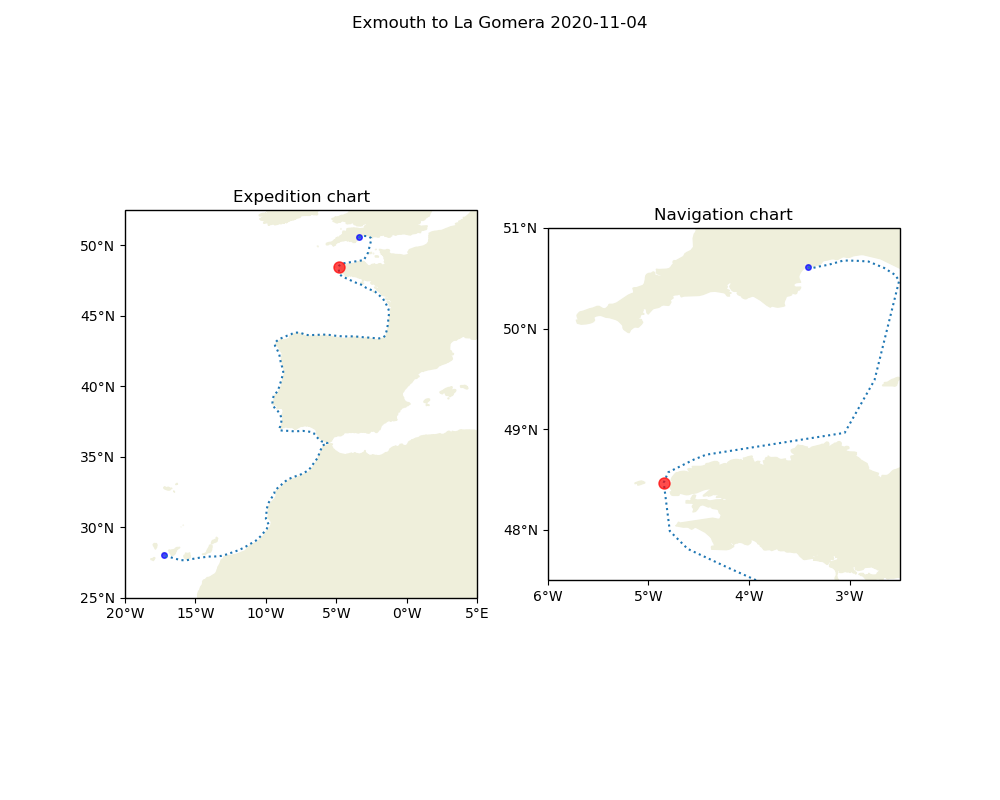
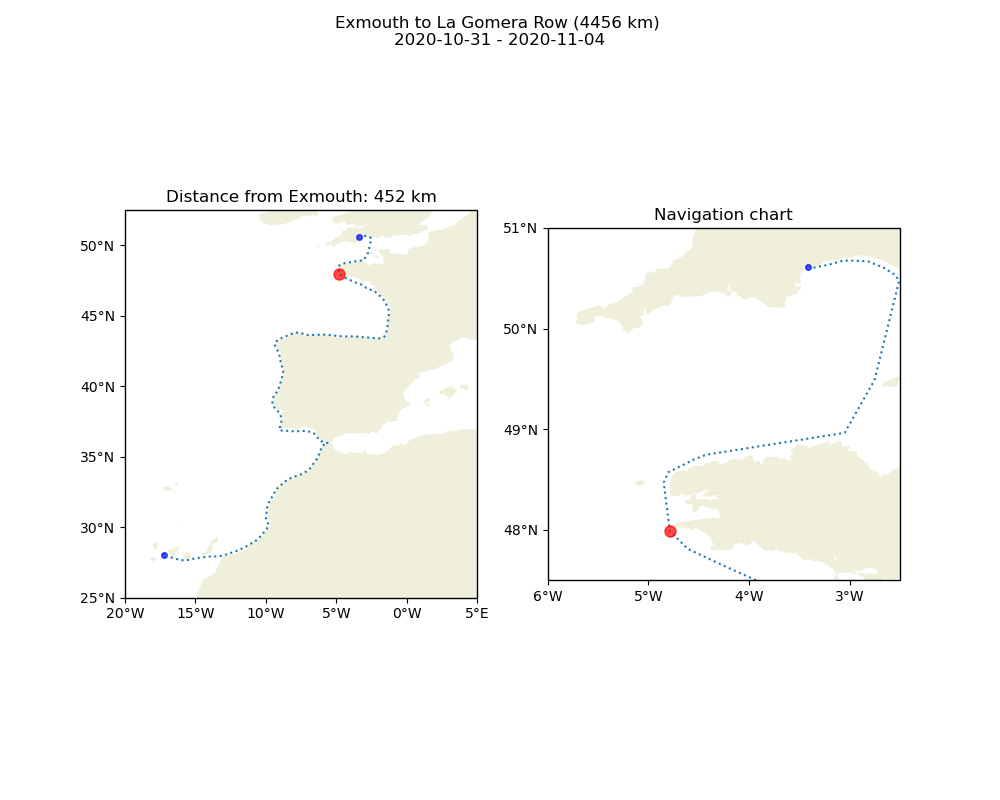
update plot

diff --git a/virtual-rowing-tour.py b/virtual-rowing-tour.py
@@ -163,8 +163,8 @@ def main():
     ax2.set_title('Navigation chart')
     ax2.set_extent(extent2)
 
-    plt.show()
-    #plt.savefig("plots/Exmouth_RC_virtual_row_winter_2020--2021.png")
+    #plt.show()
+    plt.savefig("plots/Exmouth_RC_virtual_row_winter_2020--2021.png")
 
 
 if __name__ == "__main__":
